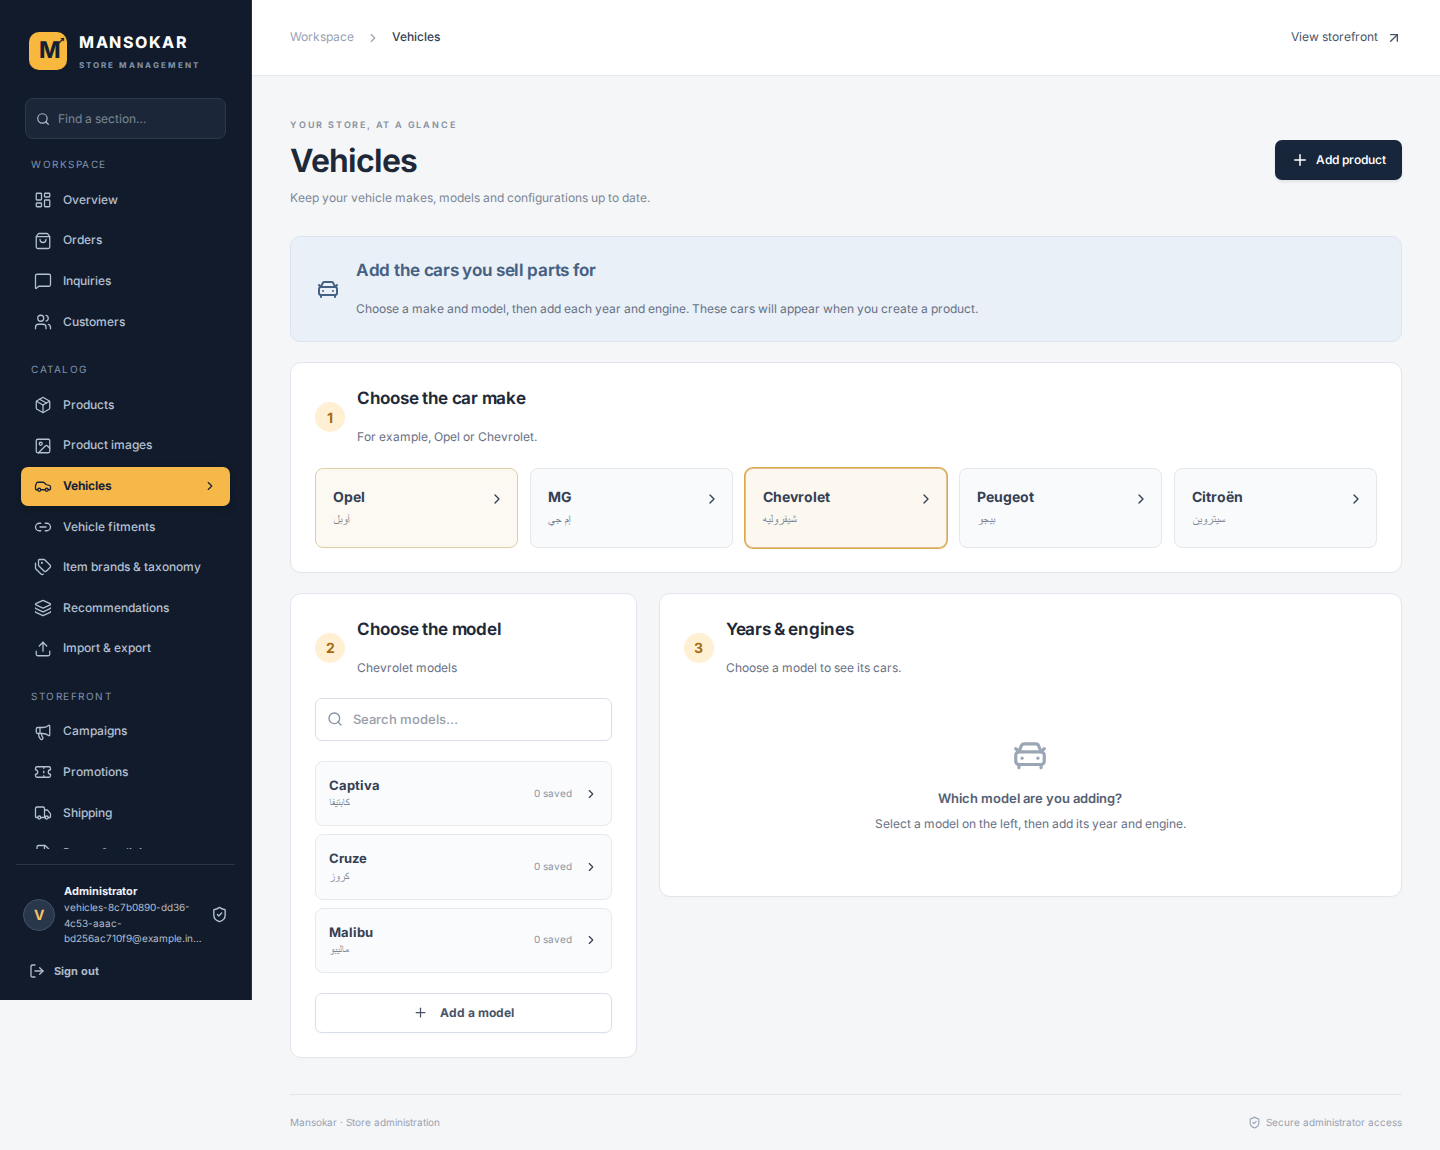
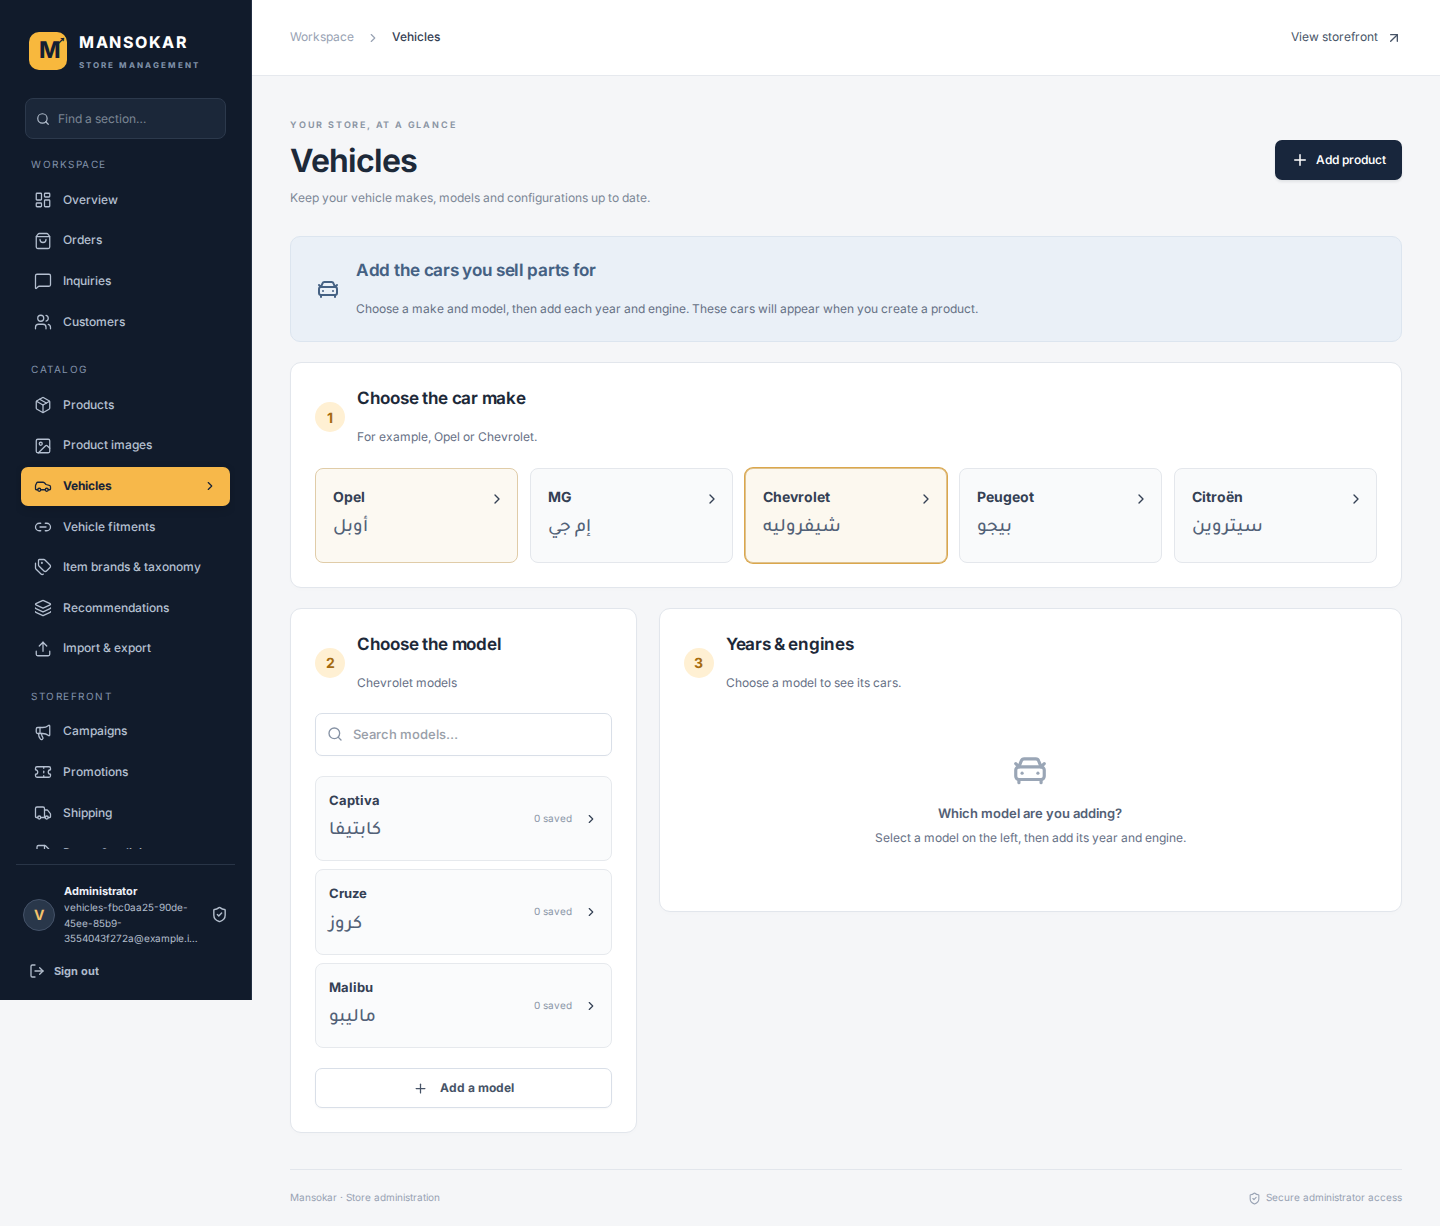
Add vehicle deletion controls and improve Arabic readability

diff --git a/src/components/admin-vehicles.tsx b/src/components/admin-vehicles.tsx
@@ -1,5 +1,6 @@
 "use client";
 import { useState } from "react";
+import { useRouter } from "next/navigation";
 import {
   CarFront,
   ChevronRight,
@@ -97,7 +98,9 @@ export function AdminVehicles({
               }}
             >
               <strong>{b.name}</strong>
-              <small>{b.ar}</small>
+              <small lang="ar" dir="rtl">
+                {b.ar}
+              </small>
               <ChevronRight size={16} />
             </button>
           ))}
@@ -136,7 +139,9 @@ export function AdminVehicles({
               >
                 <div>
                   <strong>{m.name.en}</strong>
-                  <small>{m.name.ar}</small>
+                  <small lang="ar" dir="rtl">
+                    {m.name.ar}
+                  </small>
                 </div>
                 <span>
                   {configs.filter((c) => c.model_id === m.id).length} saved
@@ -208,6 +213,16 @@ export function AdminVehicles({
                 >
                   <Pencil size={14} /> Edit model name
                 </button>
+                <DeleteRecord
+                  kind="model"
+                  id={model.id}
+                  label={`model ${model.name.en}`}
+                  onDeleted={() => {
+                    setModelId("");
+                    setConfig(null);
+                    setEditingModel(false);
+                  }}
+                />
               </div>
               {editingModel && (
                 <ModelForm key={model.id} brand={brand} initial={model} />
@@ -258,6 +273,14 @@ export function AdminVehicles({
                       >
                         <Pencil size={14} /> Edit
                       </button>
+                      <DeleteRecord
+                        kind="car"
+                        id={c.id}
+                        label={`${model.name.en} ${c.year} · ${c.engine}`}
+                        onDeleted={() => {
+                          if (config?.id === c.id) setConfig(null);
+                        }}
+                      />
                     </div>
                   ))}
                 </div>
@@ -278,6 +301,11 @@ export function AdminVehicles({
                         {g.name} · {g.year_start}–{g.year_end ?? "present"}
                       </summary>
                       <GenerationForm modelId={model.id} initial={g} />
+                      <DeleteRecord
+                        kind="generation"
+                        id={g.id}
+                        label={`generation ${g.name}`}
+                      />
                     </details>
                   ))}
               </details>
@@ -285,6 +313,88 @@ export function AdminVehicles({
           )}
         </section>
       </div>
+    </div>
+  );
+}
+function DeleteRecord({
+  kind,
+  id,
+  label,
+  onDeleted,
+}: {
+  kind: "car" | "model" | "generation";
+  id: string;
+  label: string;
+  onDeleted?: () => void;
+}) {
+  const [confirm, setConfirm] = useState(false),
+    [busy, setBusy] = useState(false),
+    [error, setError] = useState("");
+  const router = useRouter();
+  return (
+    <div className={styles.deleteControl}>
+      {!confirm ? (
+        <button
+          type="button"
+          className={styles.deleteButton}
+          aria-label={`Delete ${label}`}
+          onClick={() => {
+            setConfirm(true);
+            setError("");
+          }}
+        >
+          Delete
+        </button>
+      ) : (
+        <div
+          className={styles.confirm}
+          role="group"
+          aria-label={`Confirm deletion of ${label}`}
+        >
+          <p>Delete {label}? This cannot be undone.</p>
+          <div>
+            <button
+              type="button"
+              disabled={busy}
+              onClick={async () => {
+                setBusy(true);
+                try {
+                  const response = await fetch(
+                    "/api/admin-delete-vehicle-record",
+                    {
+                      method: "POST",
+                      headers: { "Content-Type": "application/json" },
+                      body: JSON.stringify({ kind, id }),
+                    },
+                  );
+                  const result = await response.json();
+                  if (!response.ok) throw Error(result.error);
+                  setConfirm(false);
+                  onDeleted?.();
+                  router.refresh();
+                } catch (e) {
+                  setError(e instanceof Error ? e.message : "Unable to delete");
+                } finally {
+                  setBusy(false);
+                }
+              }}
+            >
+              {busy ? "Deleting…" : "Confirm delete"}
+            </button>
+            <button
+              type="button"
+              disabled={busy}
+              onClick={() => {
+                setConfirm(false);
+                setError("");
+              }}
+            >
+              Cancel
+            </button>
+          </div>
+          {error && <p role="alert">{error}</p>}
+        </div>
+      )}
     </div>
   );
 }

diff --git a/src/app/api/[action]/route.ts b/src/app/api/[action]/route.ts
@@ -861,6 +861,40 @@ export async function POST(
         const { error } = await commit(input);
         if (error) throw error;
         details = { code: input.code };
+      } else if (action === "admin-delete-vehicle-record") {
+        const input = z
+          .object({
+            kind: z.enum(["car", "model", "generation"]),
+            id: z.string().min(1).max(100),
+          })
+          .parse(b);
+        const table = {
+          car: "vehicle_configs",
+          model: "vehicle_models",
+          generation: "vehicle_generations",
+        }[input.kind];
+        const { data: removed, error: deleteError } = await db
+          .from(table)
+          .delete()
+          .eq("id", input.id)
+          .select("id");
+        if (deleteError?.code === "23503")
+          return NextResponse.json(
+            {
+              error:
+                input.kind === "model"
+                  ? "This model still has saved cars or generations. Remove those first."
+                  : "This record is used by products, customer cars, orders or inquiries. Remove its links first; historical order records must be retained.",
+            },
+            { status: 409 },
+          );
+        if (deleteError) throw deleteError;
+        if (!removed?.length)
+          return NextResponse.json(
+            { error: "This record no longer exists. Refresh the page." },
+            { status: 404 },
+          );
+        details = input;
       } else if (action === "admin-vehicle") {
         const input = vehicleInput.parse(JSON.parse(b.json));
         const { error } = await commit(input);

diff --git a/src/components/admin-vehicles.module.css b/src/components/admin-vehicles.module.css
@@ -8,6 +8,64 @@
   border-radius: 10px;
   color: #456183;
 }
+.makes small[lang="ar"],
+.modelList small[lang="ar"] {
+  font-family: var(--font-arabic);
+  font-size: 19px;
+  font-weight: 500;
+  line-height: 1.65;
+  color: #526177;
+  margin-top: 6px;
+  text-align: left;
+}
+.deleteControl {
+  position: relative;
+  flex: 0 0 auto !important;
+}
+.yearList .deleteButton,
+.actions .deleteButton,
+.deleteButton {
+  color: #b42318;
+  font-size: 12px;
+  border: 1px solid #f0cfca;
+  border-radius: 6px;
+  padding: 7px 10px;
+  background: #fff7f5;
+}
+.confirm {
+  position: fixed;
+  left: 50%;
+  top: 50%;
+  transform: translate(-50%, -50%);
+  z-index: 90;
+  width: 360px;
+  max-width: calc(100vw - 32px);
+  padding: 22px;
+  background: white;
+  border: 1px solid #e4e7ec;
+  border-radius: 12px;
+  box-shadow: 0 15px 90px #10182855;
+}
+.confirm > div {
+  display: flex;
+  gap: 10px;
+}
+.confirm button {
+  border: 1px solid #d8dee7;
+  padding: 8px 12px;
+  border-radius: 6px;
+  color: #344054;
+  font-size: 12px;
+}
+.confirm button:first-child {
+  background: #b42318;
+  color: white;
+  border-color: #b42318;
+}
+.confirm p[role="alert"] {
+  color: #b42318;
+  margin-top: 14px;
+}
 .intro h2 {
   font-size: 16px;
   margin: 0 0 5px;

diff --git a/src/components/admin-workspace.module.css b/src/components/admin-workspace.module.css
@@ -98,6 +98,13 @@
   line-height: 1.55;
   display: flex;
 }
+.workspace [lang="ar"],
+.workspace input[dir="rtl"],
+.workspace textarea[dir="rtl"] {
+  font-family: var(--font-arabic);
+  font-size: 18px;
+  line-height: 1.7;
+}
 .sidebar {
   width: 252px;
   flex: none;
